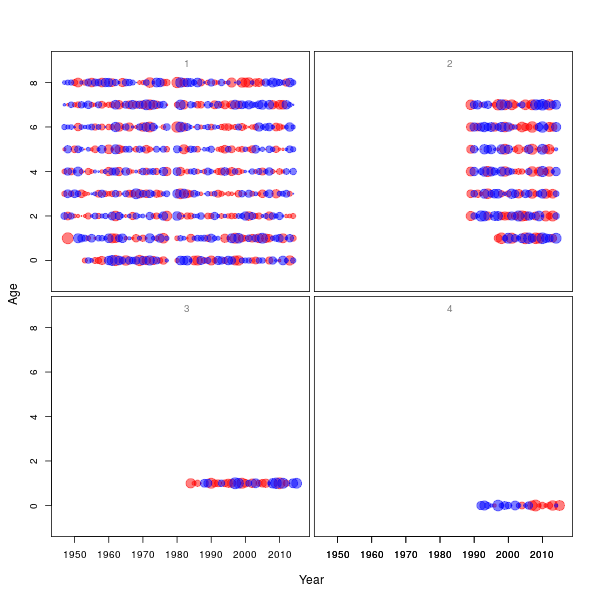
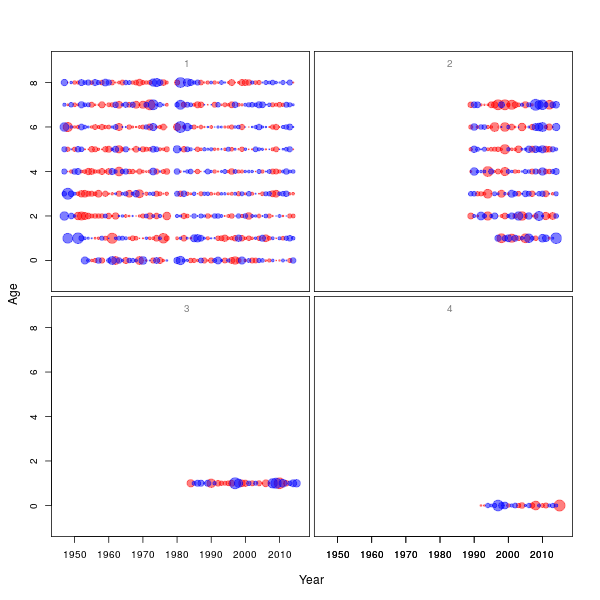
Fixed residual error

diff --git a/stockassessment/src/stockassessment.cpp b/stockassessment/src/stockassessment.cpp
@@ -419,7 +419,7 @@ Type objective_function<Type>::operator() ()
       if(!isNAINT(idx1(f,y))){
         int idxfrom=idx1(f,y);
         int idxlength=idx2(f,y)-idx1(f,y)+1;
-        ans += nllVec(f)(logobs.segment(idxfrom,idxlength)-predObs.segment(idxfrom,idxlength));
+        ans += nllVec(f)(logobs.segment(idxfrom,idxlength)-predObs.segment(idxfrom,idxlength),keep.segment(idxfrom,idxlength));
         SIMULATE{
           logobs.segment(idxfrom,idxlength) = predObs.segment(idxfrom,idxlength) + nllVec(f).simulate();
         }
@@ -463,6 +463,7 @@ Type objective_function<Type>::operator() ()
     Type huge = 10;
     for (int i = 0; i < stateDimN; i++) ans -= dnorm(logN(i, 0), Type(0), huge, true);  
     for (int i = 0; i < stateDimF; i++) ans -= dnorm(logF(i, 0), Type(0), huge, true);  
+    for (int i = 0; i < missing.size(); i++) ans -= dnorm(missing(i), Type(0), huge, true);  
   } 
   
   SIMULATE {
